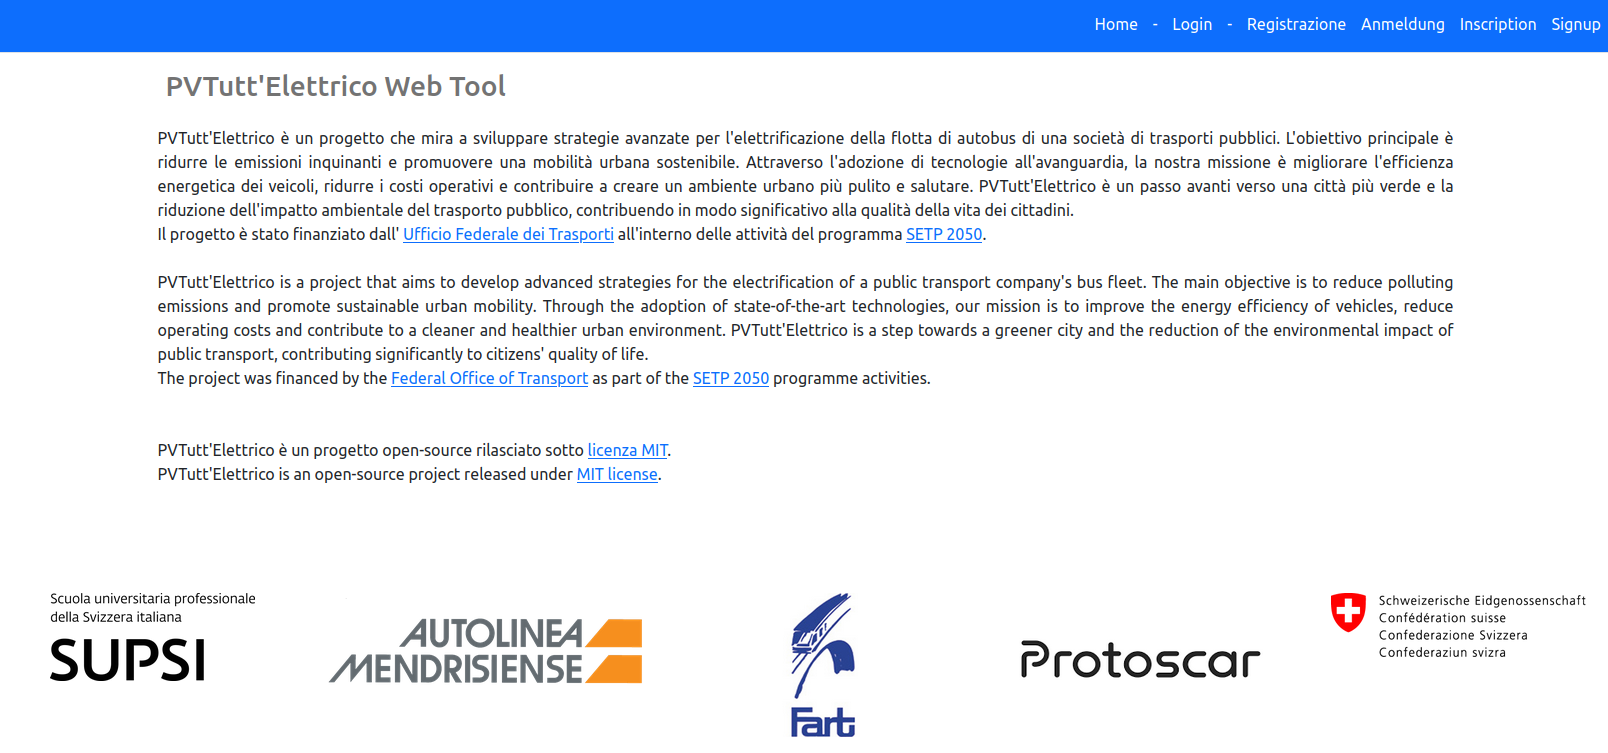
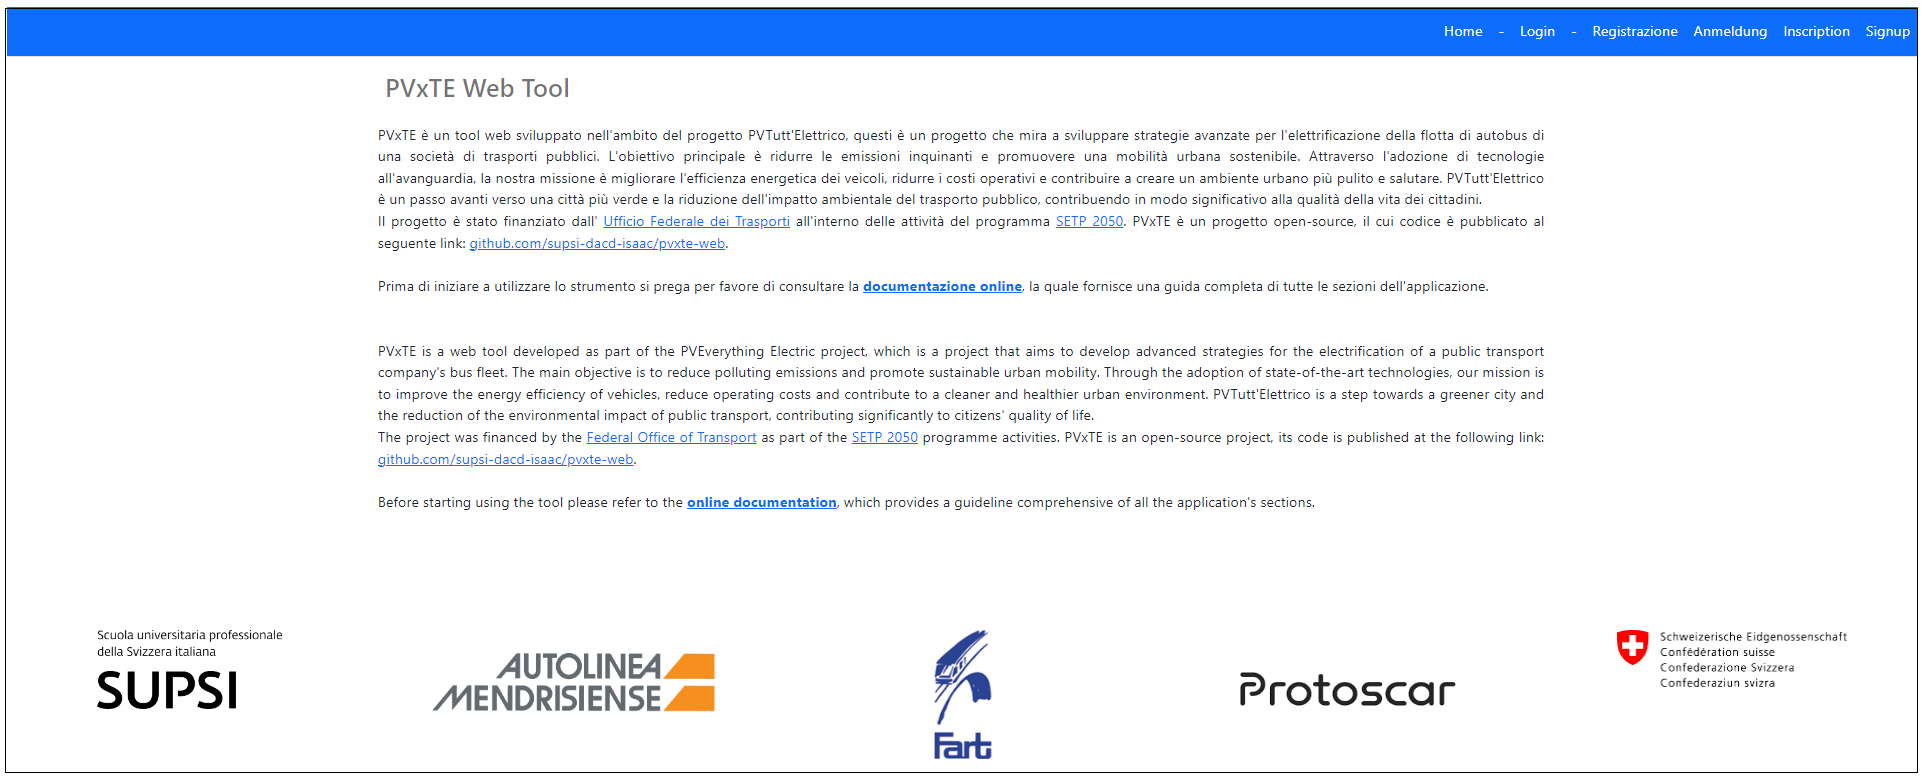
new landing page image

diff --git a/README.md b/README.md
@@ -17,8 +17,10 @@ PVxTE is an open-source project released under [MIT license](https://github.com/
 
 The rest of the documentation explains the architecture of the web tool. It also provides an easy-to-understand guide on how to use this web tool for your specific use case.  
 
-
-![Landing Page](https://github.com/supsi-dacd-isaac/pvxte-web/blob/main/docs/img/landing_page.png)
+<p align="center">
+  <img src="https://github.com/supsi-dacd-isaac/pvxte-web/blob/main/docs/img/landing_page.png" alt="Landing page" width="85%"/>
+</p>
+<p align="center"><em>Figure 1: Landing page</em></p>
 
 ## Model basics
 The workhorse of the web tool is a non-linear mixed integer (MINLP) optimization model. 
